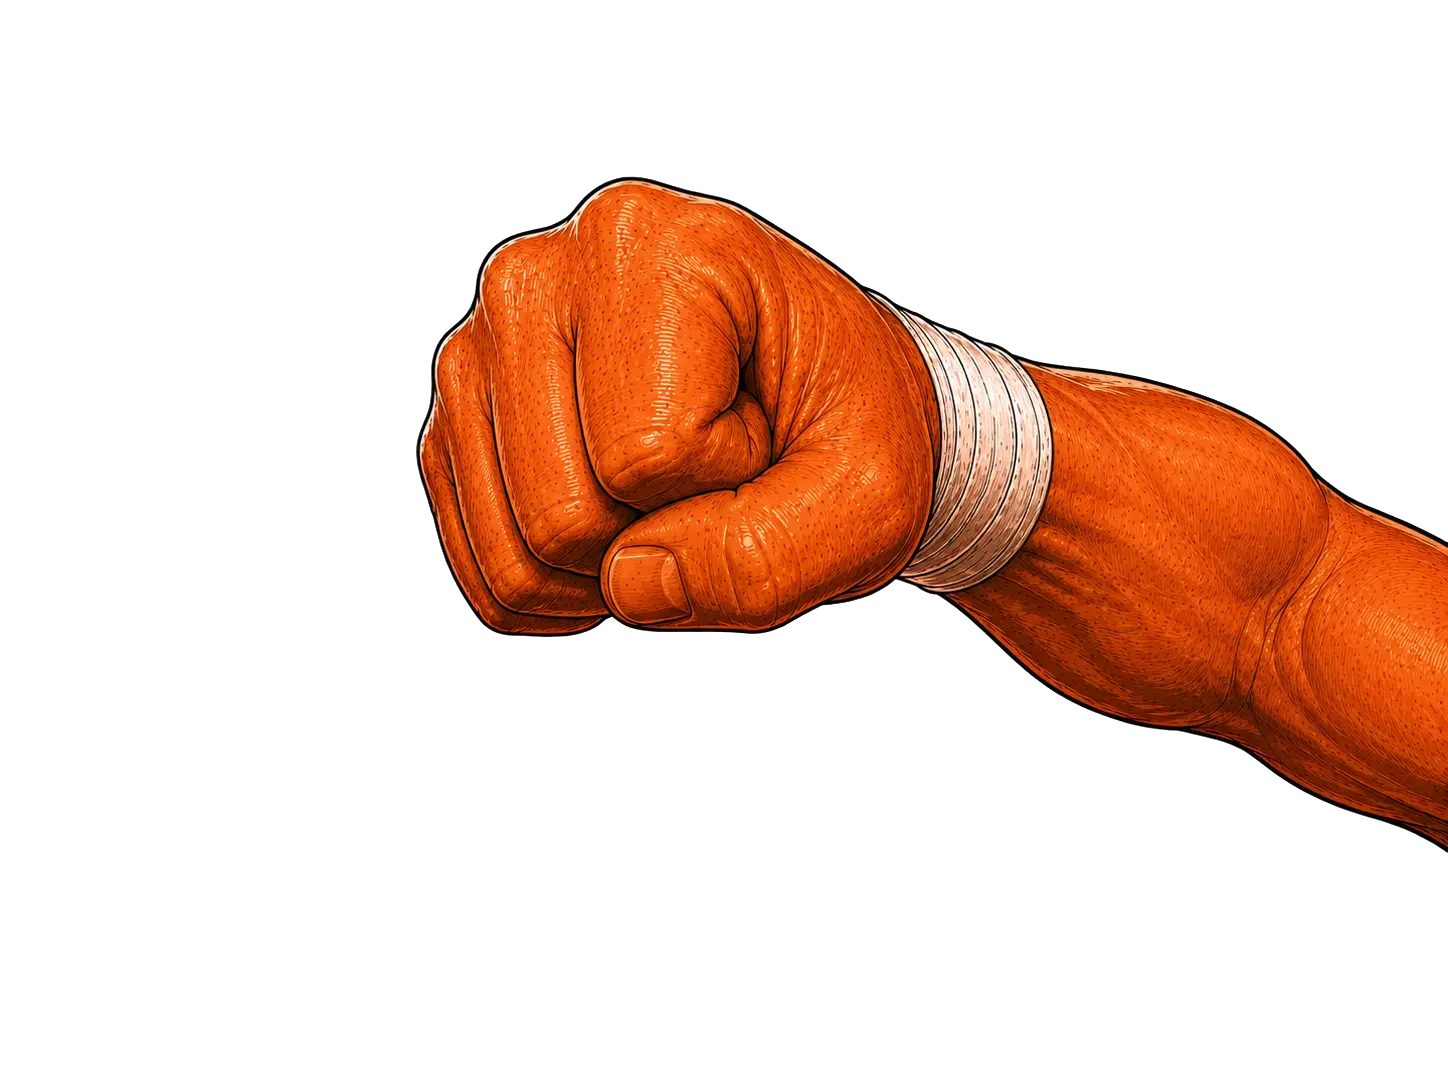
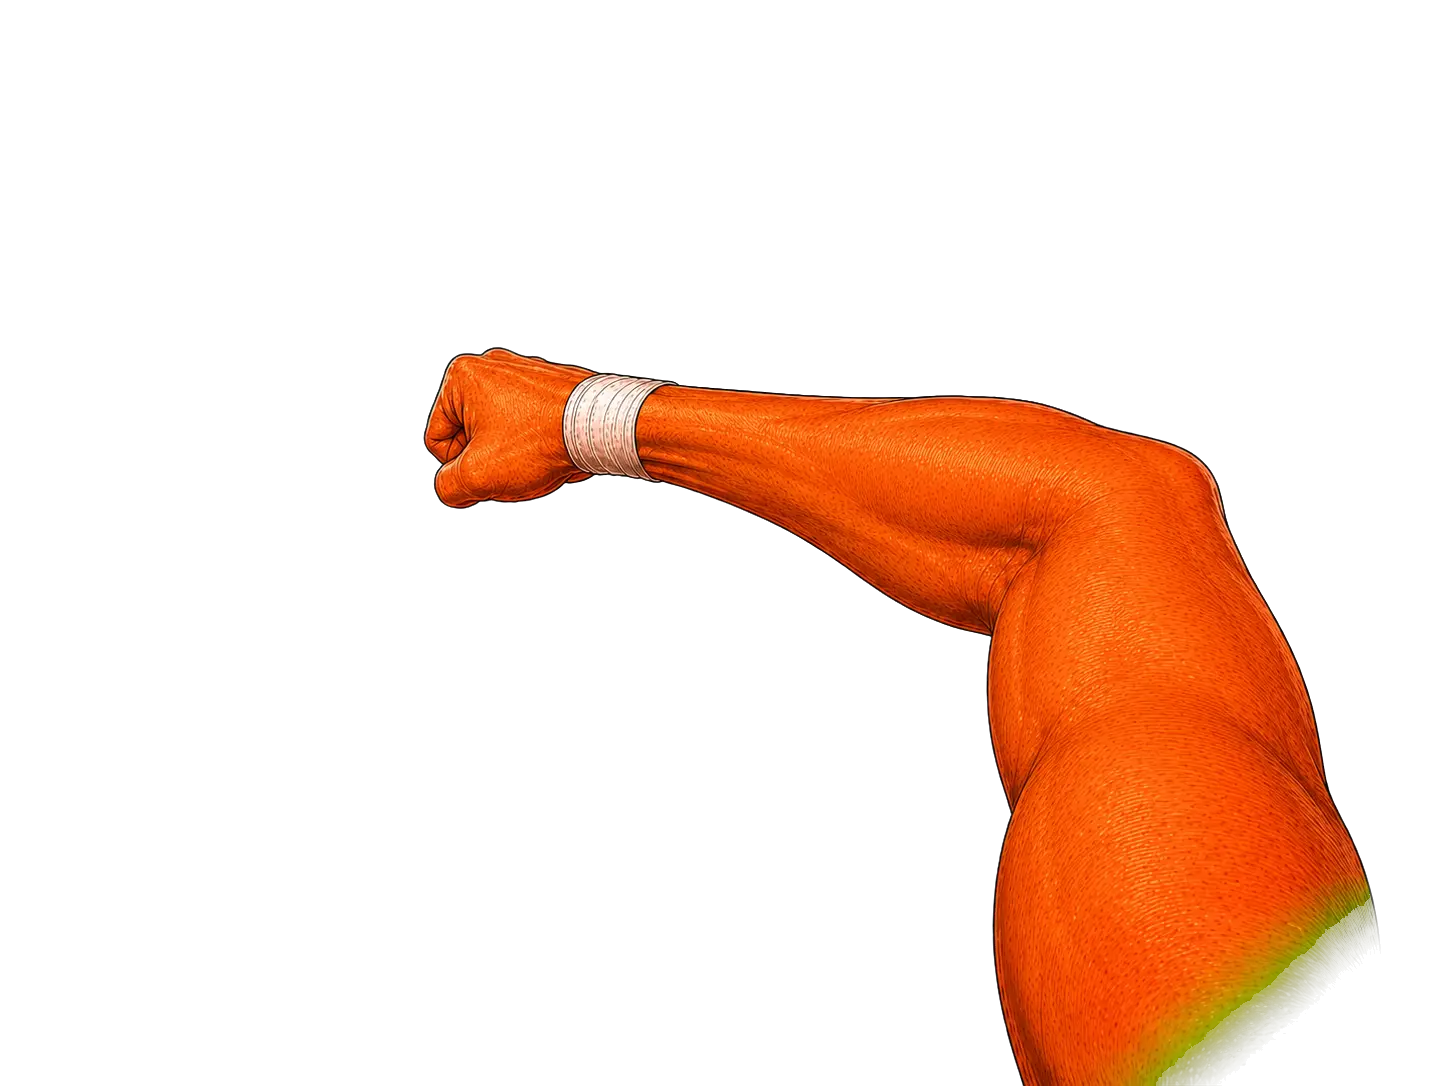
Add files via upload

Changed region(s): [[0.2797, 0.1519, 1.0, 1.0]]

diff --git a/src/Game.tsx b/src/Game.tsx
@@ -112,7 +112,7 @@ const PUNCH_POINTS: Record<keyof PunchStats, number> = {
   haymaker: 400,
   specialUppercut: 750,
 };
-const GAME_VERSION = "0.85.0";
+const GAME_VERSION = "0.85.2";
 const asset = (path: string) => `${import.meta.env.BASE_URL}${path.replace(/^\//, "")}`;
 
 const POSE_ASSETS = [
@@ -545,7 +545,15 @@ export default function Home() {
       scoreRef.current = finalScore;
       setScore(finalScore);
       const currentBoard = leaderboardRef.current;
-      const qualifies = currentBoard.length < 10 || finalScore > currentBoard[currentBoard.length - 1].score;
+      const leaderboardEligible = !(
+        flamingHandsRef.current
+        || ironJawRef.current
+        || endlessFightRef.current
+        || auraRef.current
+        || finisherEnabledRef.current
+      );
+      const qualifies = leaderboardEligible
+        && (currentBoard.length < 10 || finalScore > currentBoard[currentBoard.length - 1].score);
       setAwaitingInitials(qualifies);
       setLeaderboardSubmitted(false);
       setInitials("");
@@ -868,7 +876,12 @@ export default function Home() {
 
   const submitLocalScore = useCallback(() => {
     const cleanInitials = initials.toUpperCase().replace(/[^A-Z0-9]/g, "").slice(0, 3);
-    if (matchRef.current !== "won" || !awaitingInitials || cleanInitials.length !== 3) return;
+    const codesActive = flamingHandsRef.current
+      || ironJawRef.current
+      || endlessFightRef.current
+      || auraRef.current
+      || finisherEnabledRef.current;
+    if (codesActive || matchRef.current !== "won" || !awaitingInitials || cleanInitials.length !== 3) return;
     const entry: LeaderboardEntry = {
       initials: cleanInitials,
       score: scoreRef.current,
@@ -1643,14 +1656,14 @@ export default function Home() {
       if (matchRef.current === "fighting" && !blockingRef.current && playerActionRef.current === actionId) {
         setPlayerPose("idle");
       }
-    }, kind === "left" ? 145 : kind === "left-uppercut" ? 215 : kind === "power-jab" ? 220 : kind === "right-hook" ? 175 : isHaymaker ? 310 : kind === "uppercut" ? 330 : 175);
+    }, kind === "left" ? 145 : kind === "left-uppercut" ? 215 : kind === "power-jab" ? 220 : kind === "right-hook" ? 130 : isHaymaker ? 310 : kind === "uppercut" ? 330 : 175);
 
     window.setTimeout(() => {
       punchLockRef.current = false;
       const buffered = bufferedPunchRef.current;
       bufferedPunchRef.current = null;
       if (buffered && matchRef.current === "fighting" && !blockingRef.current) punchRef.current(buffered);
-    }, kind === "left" ? 205 : kind === "left-uppercut" ? 275 : kind === "power-jab" ? 285 : kind === "right-hook" ? 235 : kind === "haymaker" ? 390 : kind === "uppercut" ? 420 : 235);
+    }, kind === "left" ? 205 : kind === "left-uppercut" ? 275 : kind === "power-jab" ? 285 : kind === "right-hook" ? 195 : kind === "haymaker" ? 390 : kind === "uppercut" ? 420 : 235);
   }, [playSound, setEnemyPoseSafe, takePlayerDamage]);
 
   useEffect(() => void (punchRef.current = punch), [punch]);
@@ -1883,6 +1896,7 @@ export default function Home() {
   const comboDamageDisplay = combo < 3 ? 1 : Math.min(1.25, 1.05 + (combo - 3) * .025);
   const timeBonus = matchState === "won" ? Math.max(0, timer) * TIME_BONUS_PER_SECOND : 0;
   const knockdownPenalty = playerKnockdowns * PLAYER_KNOCKDOWN_SCORE_PENALTY;
+  const codesActive = flamingHands || ironJaw || endlessFight || aura || finisherEnabled;
   const rage = enemyHealth <= 35 && enemyHealth > 0;
   const opponentStyle = enemyKnockdowns === 0
     ? "RAPID FIRE"
@@ -2347,6 +2361,7 @@ export default function Home() {
                       </form>
                     )}
                     {leaderboardSubmitted && <div className="score-saved">SCORE SAVED TO LOCAL TOP 10</div>}
+                    {codesActive && <div className="score-ineligible">CODES ACTIVE · SCORE NOT ELIGIBLE FOR LOCAL TOP 10</div>}
                     <button className="view-scores-button" onClick={() => setShowLeaderboard(true)}>VIEW LOCAL TOP 10</button>
                   </div>
                   {showRematch && !awaitingInitials ? (

diff --git a/src/styles.css b/src/styles.css
@@ -368,7 +368,7 @@ button { font: inherit; touch-action:manipulation; -webkit-user-select:none; use
 .player-special-uppercut .player-main-art { animation:specialUppercutPose 330ms cubic-bezier(.05,.74,.1,1) both; transform-origin:66% 90%; }
 .player-cross-right .player-right-art { animation:crossPose 175ms cubic-bezier(.08,.72,.16,1) both; transform-origin:68% 88%; }
 .player-left-uppercut .player-left-art { animation:leftUppercutPose 215ms cubic-bezier(.06,.74,.12,1) both; transform-origin:34% 91%; }
-.player-right-hook .player-right-art { animation:rightHookPose 175ms cubic-bezier(.06,.72,.12,1) both; transform-origin:76% 88%; }
+.player-right-hook .player-right-art { animation:rightHookPose 120ms cubic-bezier(.06,.72,.12,1) both; transform-origin:76% 88%; }
 .player-haymaker-charge .player-right-art { animation:haymakerLoad 480ms cubic-bezier(.16,.72,.2,1) both,haymakerChargePulse .5s 480ms ease-in-out infinite alternate; transform-origin:68% 88%; }
 .player-haymaker .player-right-art { animation:haymakerPose 310ms cubic-bezier(.06,.7,.12,1) both; transform-origin:68% 88%; }
 .player-right-haymaker .player-right-art { animation:rightSlipHaymakerPose 310ms cubic-bezier(.06,.7,.12,1) both; transform-origin:74% 90%; }
@@ -555,6 +555,7 @@ button { font: inherit; touch-action:manipulation; -webkit-user-select:none; use
 .scorecard-grid strong { font:1000 clamp(.75rem,1.05vw,1rem)/1 Arial,sans-serif; }
 .scorecard-grid .score-bonus { color:#baff39; }
 .scorecard-grid .score-penalty { color:#ff6257; }
+.score-ineligible { margin:.45rem 0 0; padding:.42rem .55rem; color:#ffcf58; border:1px solid #8a5a22; background:#211407; font:900 clamp(.5rem,.72vw,.68rem)/1.15 Arial,sans-serif; letter-spacing:.1em; }
 .scorecard-total { margin-top:.5rem; padding:.45rem .55rem; color:#111; background:var(--gold); }
 .scorecard-total em { color:#2b2110; }
 .scorecard-total strong { font:1000 clamp(1rem,1.45vw,1.45rem)/1 Arial,sans-serif; }
@@ -714,9 +715,8 @@ button { font: inherit; touch-action:manipulation; -webkit-user-select:none; use
   100% { transform:translateX(-50%) translate(1%,-3%) scale(1.03); filter:drop-shadow(0 11px 12px #120605cc); }
 }
 @keyframes rightHookPose {
-  0% { transform:translateX(-50%) translate(10%,7%) rotate(7deg) scale(1.04); filter:drop-shadow(0 9px 10px #120605aa) blur(.7px); }
-  72% { transform:translateX(-50%) translate(-8%,-5%) rotate(-3deg) scale(.9); filter:drop-shadow(0 11px 13px #120605dd); }
-  100% { transform:translateX(-50%) translate(-8%,-5%) rotate(-3deg) scale(.9); filter:drop-shadow(0 11px 13px #120605dd); }
+  0% { transform:translateX(-50%) translate(9%,6%) rotate(5deg) scale(.86); filter:drop-shadow(0 9px 10px #120605aa) blur(.7px); }
+  100% { transform:translateX(-50%) translate(-3%,-4%) rotate(-1deg) scale(1.03); filter:drop-shadow(0 11px 13px #120605dd); }
 }
 @keyframes haymakerLoad {
   from { transform:translateX(-50%) translate(0,0) rotate(0) scale(1); filter:drop-shadow(0 9px 10px #120605aa); }
